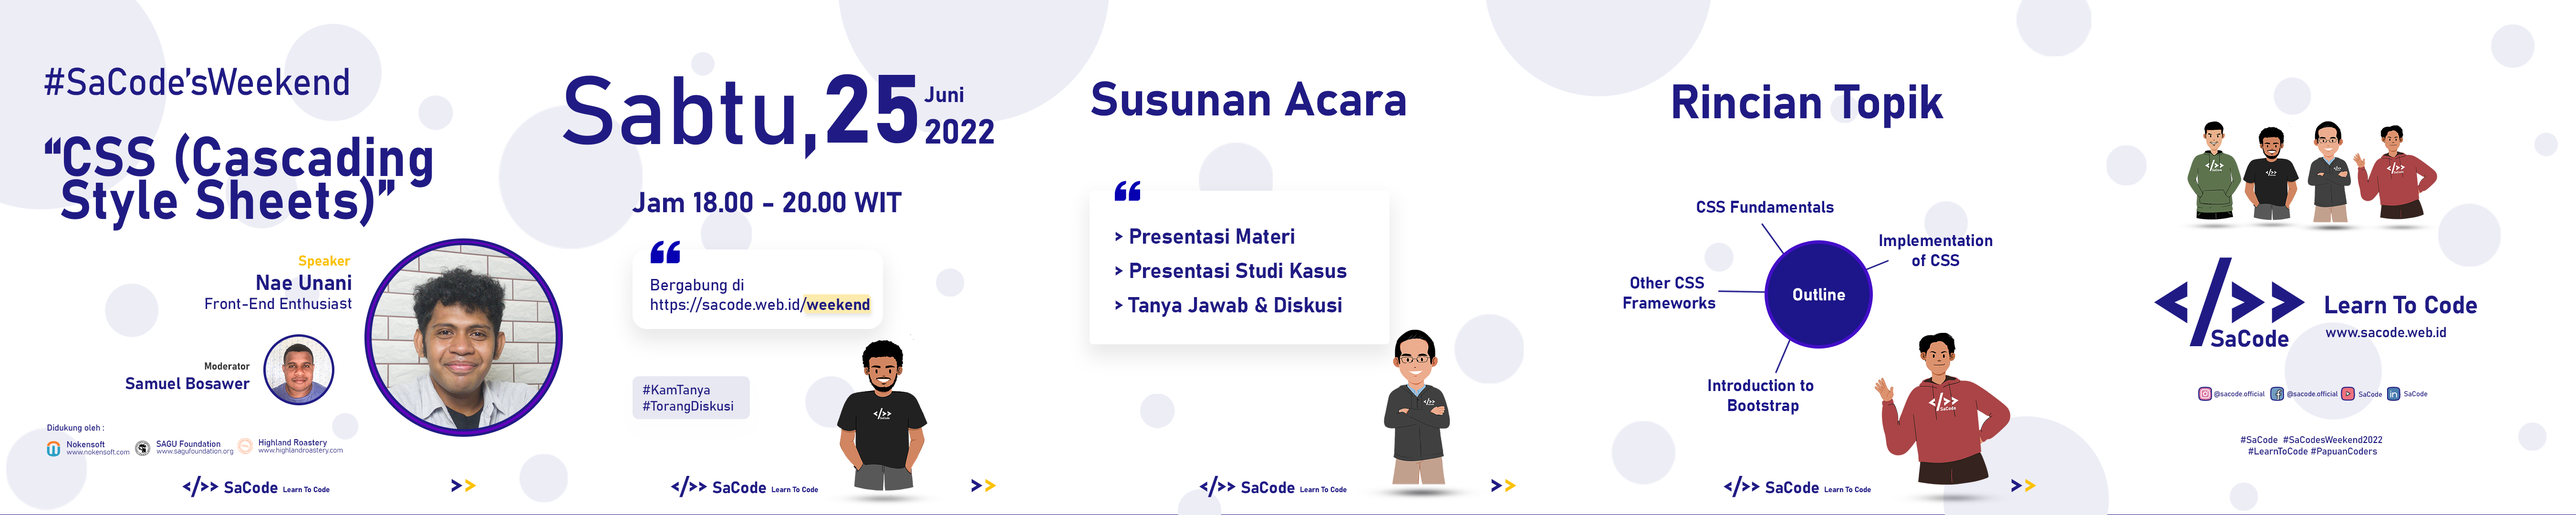
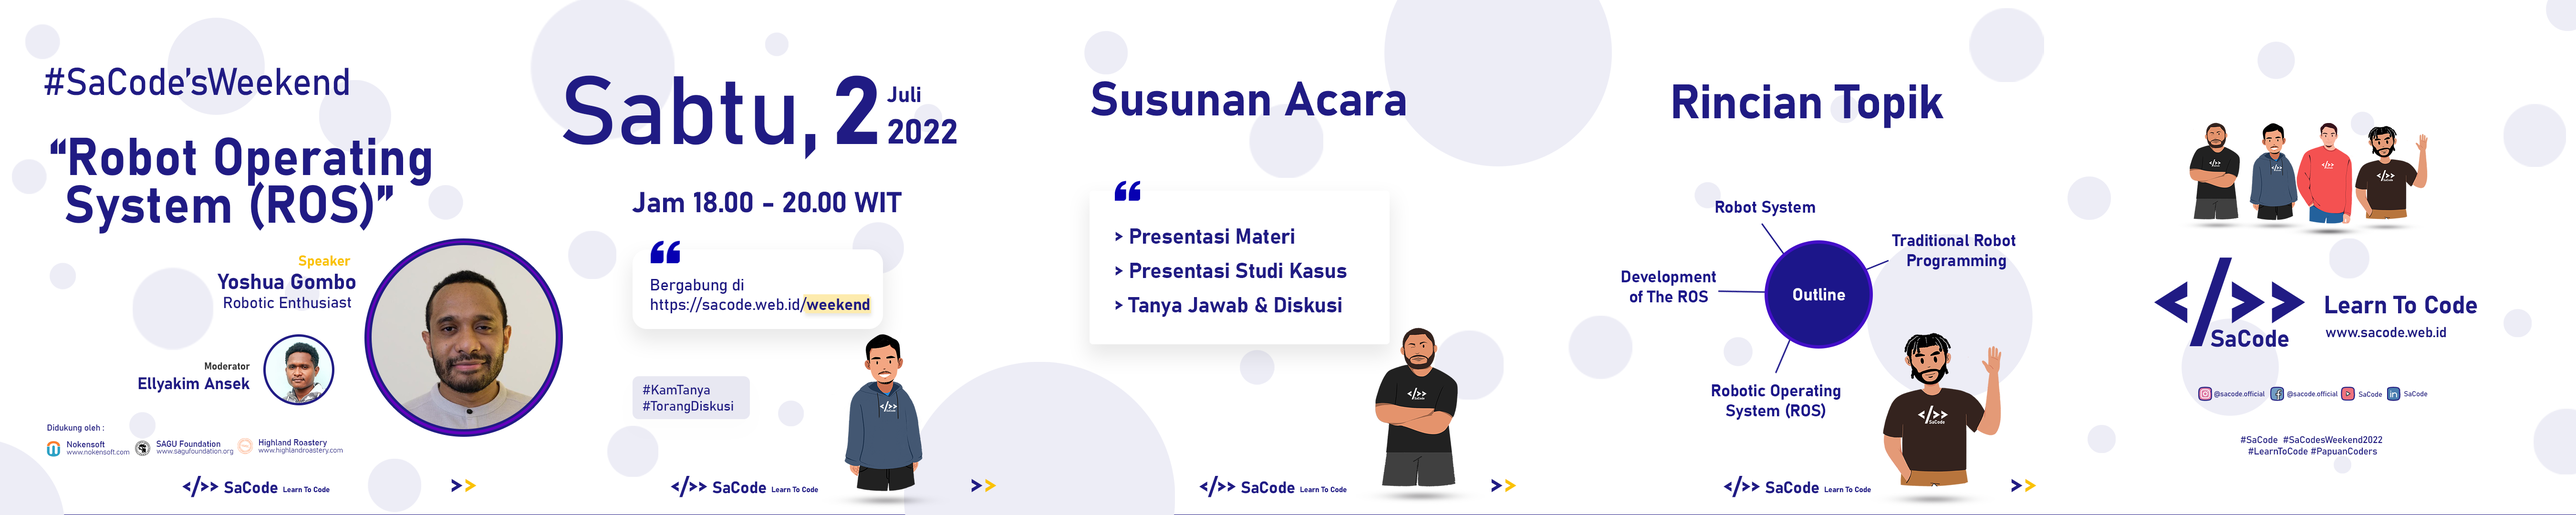
update weekend slide

diff --git a/weekend.html b/weekend.html
@@ -130,11 +130,12 @@
                                 <span class="text-primary">Formulir Pendaftaran</span>
                             </span>
                             <h2 class="mb-5">
-                                CSS (Cascading Style Sheets) <br> With Nae Unani
+                                Robot Operating System (ROS) with Yoshua Gombo
                             </h2>
                             <span>
-                                <a href="https://www.instagram.com/p/CfLrfN6B2I9/" class="badge badge-primary p-2"
-                                    target="_blank"><i class="fas fa-info-circle mr-1"></i> Informasi Lengkap</a>
+                                <!-- Instagram Info -->
+                                <a href="#" class="badge badge-primary p-2" target="_blank"><i
+                                        class="fas fa-info-circle mr-1"></i> Informasi Lengkap</a>
                             </span>
                             <hr>
                             <p class="d-none d-sm-block mt-4">Kegaitan ini dilaksanakan secara <span
